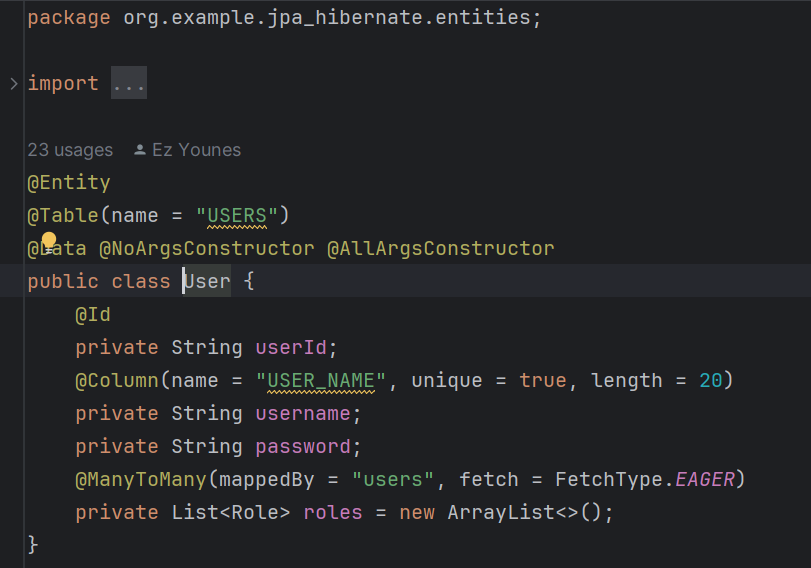
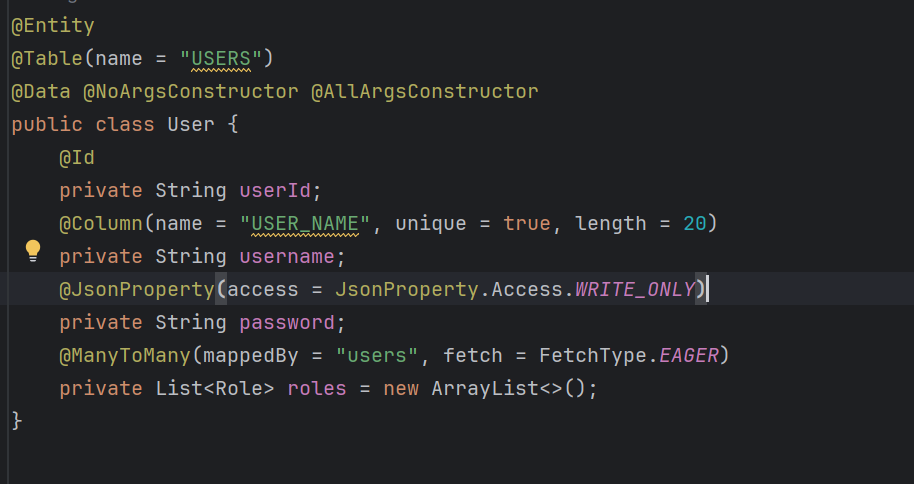
first commit

diff --git a/src/main/java/org/example/jpa_hibernate/JpaHibernateApplication.java b/src/main/java/org/example/jpa_hibernate/JpaHibernateApplication.java
@@ -96,10 +96,15 @@ public class JpaHibernateApplication {
             productRepositoty.save(new Product(null,"Printer",1200.,4));
             productRepositoty.save(new Product(null,"Smart Phone",3200.,32));
 
-            System.out.println("test authentication");
+            System.out.println("test authentication\n");
             try {
                 User user = userService.authenticate("user1","123456");
-
+                System.out.println("User ID : " + user.getUserId());
+                System.out.println("Username : " + user.getUsername());
+                System.out.println("Roles => ");
+                user.getRoles().forEach(role -> {
+                    System.out.println("Role => " + role.toString());
+                });
             }
             catch (Exception e){
                 System.out.println(e.getMessage());

diff --git a/src/main/java/org/example/jpa_hibernate/web/UserController.java b/src/main/java/org/example/jpa_hibernate/web/UserController.java
@@ -1,0 +1,20 @@
+package org.example.jpa_hibernate.web;
+
+import org.example.jpa_hibernate.entities.User;
+import org.example.jpa_hibernate.services.IUserService;
+import org.springframework.beans.factory.annotation.Autowired;
+import org.springframework.web.bind.annotation.GetMapping;
+import org.springframework.web.bind.annotation.PathVariable;
+import org.springframework.web.bind.annotation.RestController;
+
+@RestController
+public class UserController {
+    @Autowired
+    private IUserService userService;
+
+    @GetMapping("/users/{username}")
+    public User user(@PathVariable String username){
+        User user = userService.findUserByUserName(username);
+        return user;
+    }
+}

diff --git a/src/main/java/org/example/jpa_hibernate/entities/Role.java b/src/main/java/org/example/jpa_hibernate/entities/Role.java
@@ -1,9 +1,11 @@
 package org.example.jpa_hibernate.entities;
 
+import com.fasterxml.jackson.annotation.JsonProperty;
 import jakarta.persistence.*;
 import lombok.AllArgsConstructor;
 import lombok.Data;
 import lombok.NoArgsConstructor;
+import lombok.ToString;
 
 import java.util.ArrayList;
 import java.util.List;
@@ -17,5 +19,7 @@ public class Role {
     private String roleName;
     @ManyToMany(fetch = FetchType.EAGER)
     //@JoinTable(name = "ROLE_USERS")
+    @ToString.Exclude
+    @JsonProperty(access = JsonProperty.Access.WRITE_ONLY)
     private List<User> users = new ArrayList<>();
 }

diff --git a/src/main/java/org/example/jpa_hibernate/entities/User.java b/src/main/java/org/example/jpa_hibernate/entities/User.java
@@ -1,5 +1,6 @@
 package org.example.jpa_hibernate.entities;
 
+import com.fasterxml.jackson.annotation.JsonProperty;
 import jakarta.persistence.*;
 import lombok.AllArgsConstructor;
 import lombok.Data;
@@ -16,6 +17,7 @@ public class User {
     private String userId;
     @Column(name = "USER_NAME", unique = true, length = 20)
     private String username;
+    @JsonProperty(access = JsonProperty.Access.WRITE_ONLY)
     private String password;
     @ManyToMany(mappedBy = "users", fetch = FetchType.EAGER)
     private List<Role> roles = new ArrayList<>();

diff --git a/README.MD b/README.MD
@@ -92,6 +92,16 @@
 <h6>Test Authentication</h6>
 <img src="captures/TestAuth.PNG">
 
+<h6>patientController code</h6>
+<img src="captures/PatientController.PNG">
+<h6>result of patientController</h6>
+<img src="captures/ListPatients.PNG">
+
+<h6>UserController code</h6>
+<img src="captures/UserController.PNG">
+<h6>result of UserController</h6>
+<img src="captures/User1Info.PNG">
+
 
 
 
